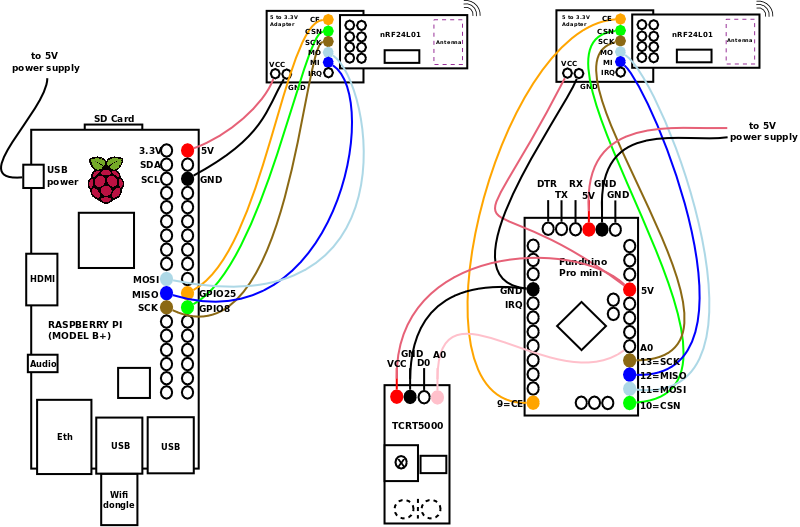
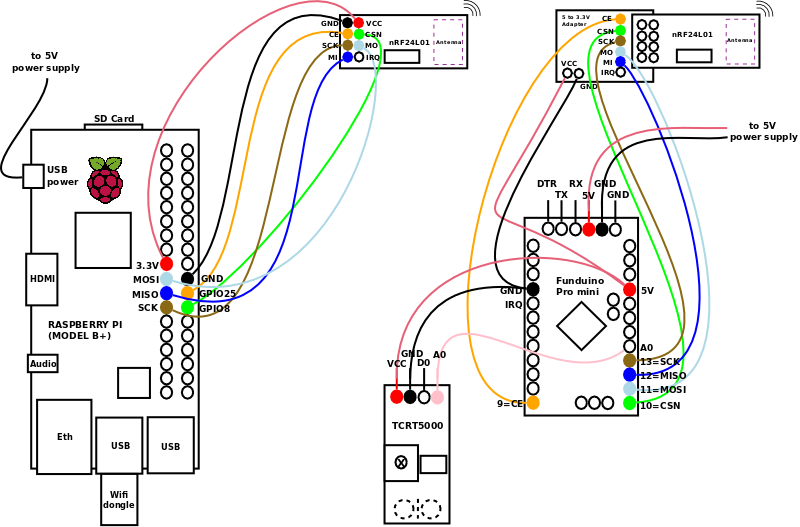
minor tweaks here and there

diff --git a/pages/WirelessWaterMeter/index.html b/pages/WirelessWaterMeter/index.html
@@ -233,11 +233,15 @@ Press CTRL-C for hangup</code></pre>
 
 <p><img alt='nRF24L01' src='http://jheyman.github.io/blog/assets/images/WirelessWaterMeter/nRF24L01_and_adapter.png' /></p>
 
-<p><strong>Note</strong>: even if when 3.3V is available as on the Raspi, a bit of reading about this module convinced me that using this adapter anyway was a good thing, since the regulator filters out potential noise on the native 3.3V, ensuring optimal functionning.<br /><br /></p>
-
 <p>The overall cabling, both on the emitter side (Funduino &amp; TCRT5000) and on the receiver side (Raspberry pi) is shown below:</p>
 
-<p><img alt='Cabling' src='http://jheyman.github.io/blog/assets/images/WirelessWaterMeter/cabling_raspi_funduino.png' /></p>
+<p><img alt='Cabling' src='http://jheyman.github.io/blog/assets/images/WirelessWaterMeter/cabling_raspi_funduino_5V.png' /></p>
+
+<p><strong>Note</strong>: on the raspberry side, even though 3.3V is available on the GPIO connector, I also used a 5V/3.3V adapter like on the Arduino side. I initially connected the 3.3V directly, but found out that the range of the wireless link was largely degraded. The nRF24L01 appears to be quite sensitive to the quality of the input 3.3V supply, and the adapter&#8217;s regulator allows to have a cleaner 3.3V supply.<br /><br /></p>
+
+<p>Below is a view of the arduino part, integrated inside a small box that is then mounted near the water meter (the USB connector/cable goes to the TCRT5000 module, I just used the 4 available wires in the cable, and happened to have a spare female USB connector lying around. The cable on the left is the 5V power supply)</p>
+
+<p><img alt='arduino box' src='http://jheyman.github.io/blog/assets/images/WirelessWaterMeter/arduino_box.png' /></p>
 
 <h4 id='software_install_on_the_arduino_side'>Software install on the arduino side</h4>
 
@@ -269,13 +273,18 @@ Press CTRL-C for hangup</code></pre>
 <pre><code>sudo modprobe spi-bcm2708</code></pre>
 
 <ul>
+<li>Installing python-dev libraries (required for spidev compilation)</li>
+</ul>
+<pre><code>sudo apt-get install python-dev
+</code></pre>
+<ul>
 <li>Installing <strong>spidev</strong> for python:</li>
 </ul>
 <pre><code>git clone https://github.com/doceme/py-spidev
 cd py-spidev/
 sudo python setup.py install
 </code></pre>
-<p>As usual, I chose python for the raspberry side of the code. I reused a python library for the RF24 modules from <a href='`https://github.com/riyas-org/nrf24pihub`'>here</a> I archived it <a href='https://github.com/jheyman/wirelesswatermeter'>here</a> along with the rest of the files of this project.</p>
+<p>Finally, and as I usually do, I chose python for the raspberry side of the code. I reused a python library for the RF24 modules from <a href='https://github.com/riyas-org/nrf24pihub'>here</a>, I archived it <a href='https://github.com/jheyman/wirelesswatermeter'>here</a>. I just put this <code>nrf24.py</code> file alongside my python script, for the sake of simplicity.</p>
 
 <h4 id='communication_tests'>Communication tests</h4>
 

diff --git a/pages/ArduinoFTDICable/index.html b/pages/ArduinoFTDICable/index.html
@@ -41,13 +41,15 @@
 
 			<div class="bd">
 				<div class="entry-content">
-					<p>When programming a regular arduino board, a USB cable is enough. But when rolling out your own standalone arduino circuits, it soon becomes as hassle to plug the ATmega chip into an Arduino board, or use a breadboard setup for the chip and use the Arduino as a programmer. An easy alternative is to equip your custom circuit with a header for connecting an FTDI cable (i.e. a cable that has USB on end to plug into the host computer, and a serial interface on the other end to connect to the ATmega RX/TX/Reset pins.)</p>
+					<p>When programming a regular arduino board, a USB cable is enough. But when rolling out your own standalone arduino circuits, it soon becomes as hassle to plug the ATmega chip into an Arduino board, or use a breadboard setup for the chip and use the Arduino as a programmer. An easy alternative is to equip your custom circuit with a header for connecting an FTDI cable (i.e. a cable that has USB on end to plug into the host computer, and a serial interface on the other end to connect to the ATmega RX/TX/Reset pins.)<br /><br /></p>
 
 <p>As usual, I tried to find the cheapest option and stumbled upon this tutorial on how to hack a Nokia phone cable into an Arduino FTDI cable: <a href='http://letsmakerobots.com/node/23728'>http://letsmakerobots.com/node/23728</a></p>
 
 <p>Simple enough, and I now have my own FTDI cable for 5$:</p>
 
 <p><img alt='ArduinoFTDICable' src='http://jheyman.github.io/blog/assets/images/ArduinoFTDICable/ArduinoFTDICable.png' /></p>
+
+<p>EDIT: it is now getting harder to find this Nokia USB cable, but anyway actual FTDI adapters for Arduino are available for about 6$ (e.g. <a href='http://www.dx.com/p/ftdi-basic-breakout-arduino-usb-to-ttl-upload-tool-for-mwc-black-142041#.VKkBd3WG-zc'>this</a>)</p>
 				</div><!-- entry-content -->
 
 				<br>
